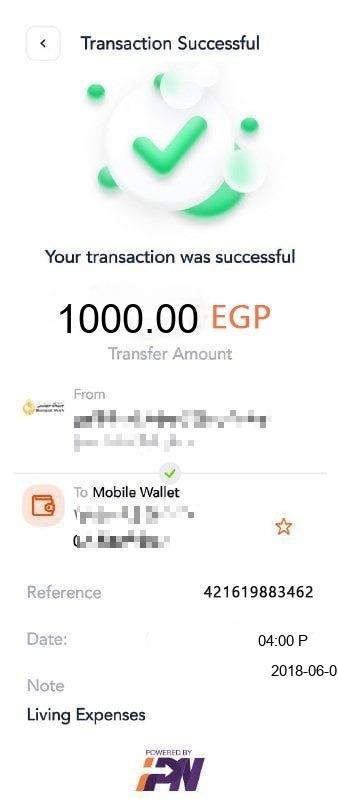
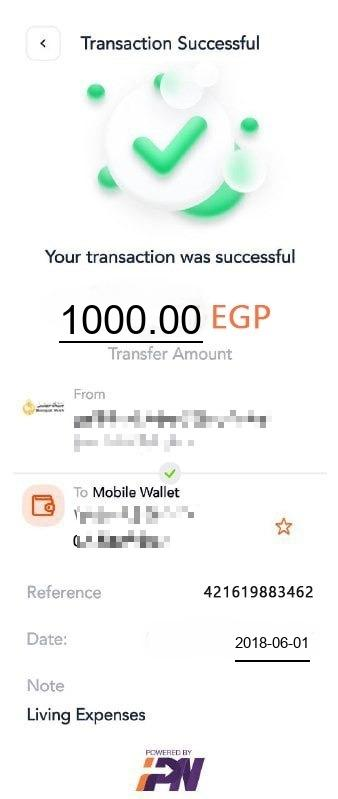
up

Changed region(s): [[0.1775, 0.3605, 0.5917, 0.4205], [0.7101, 0.781, 0.9467, 0.8711], [0.9763, 0.811, 1.0, 0.8411]]

diff --git a/genarate.py b/genarate.py
@@ -79,6 +79,7 @@ def draw_image(draw, time_slot, amount, data):
         size = item['size']
         color = item['color']
         format = item['format']
+        underline = item['underline']
 
         # Choose the font
         font = ImageFont.truetype(font_folder+"/"+font_path, size)
@@ -94,6 +95,8 @@ def draw_image(draw, time_slot, amount, data):
         text_bbox = draw.textbbox((0, 0), text, font=font)
         text_width = text_bbox[2] - text_bbox[0]
         text_height = text_bbox[3] - text_bbox[1]
+
+
         # Draw the text on the image
         y -= text_height
 
@@ -106,6 +109,8 @@ def draw_image(draw, time_slot, amount, data):
 
         # Draw the text on the image at the specified position
         draw.text((x, y), text, font=font, fill=color)
+        if underline:
+            draw.line((x, y + text_height+15, x + text_width, y + text_height+15), fill=color, width=2)
 
     return draw
 
@@ -172,16 +177,7 @@ for index, row in task.iterrows():
     for time_slot in time_slots:
         print(f"Task ID: {task_id} is processing at {time_slot}")
         # Randomly select a template
-        template = random.choice(tmp_task_type_template)
-        while template in tmp_used_template:
-            template = random.choice(tmp_task_type_template)
-            if len(tmp_task_type_template) == len(tmp_used_template):
-                print('All template is used for this task')
-                exit()
-                
-        tmp_used_template.append(template)
-
-
+        
         #if type is withdrwal chose from withdrwal_list A and B with presectage
         if task_type == 'deposit':
             if A_presectage_count < qty * A_presectage:
@@ -197,6 +193,31 @@ for index, row in task.iterrows():
         else:
             print('Task type not found')
             exit()
+        
+        template = random.choice(tmp_task_type_template)
+        atempt = 0
+        while template['amount_digits_max'] < len(str(amount)) and template['amount_digits_min'] > len(str(amount)):
+            template = random.choice(tmp_task_type_template)
+            atempt += 1
+            if atempt > 20:
+                print('All template is not match with amount')
+                exit()
+
+        while template in tmp_used_template:
+            atempt = 0
+            template = random.choice(tmp_task_type_template)
+            while template['amount_digits_max'] < len(str(amount)) and template['amount_digits_min'] > len(str(amount)):
+                template = random.choice(tmp_task_type_template)
+                atempt += 1
+                if atempt > 20:
+                    print('All template is not match with amount')
+                    exit()
+            if len(tmp_task_type_template) == len(tmp_used_template):
+                print('All template is used for this task')
+                exit()
+            
+                
+        tmp_used_template.append(template)
 
         if max_amount == 0:
             image = Image.open(templates_path + '/' + template['name'])
@@ -211,6 +232,8 @@ for index, row in task.iterrows():
                 amount -= max_amount
                 image = Image.open(templates_path + '/' + template['name'])
                 draw = ImageDraw.Draw(image)
+                # add random minite to time_slot 0-5
+                time_slot = time_slot + timedelta(minutes=random.randint(0, 5))
                 draw = draw_image(draw, time_slot, tmp_amount, template['data'])
                 if not os.path.exists(output_folder+"/"+str(task_id)):
                     os.makedirs(output_folder+"/"+str(task_id))

diff --git a/config.py b/config.py
@@ -30,7 +30,7 @@ def draw_image(draw, time_slot, amount, data):
         size = item['size']
         color = item['color']
         format = item['format']
-
+        underline = item['underline']
         # Choose the font
         font = ImageFont.truetype(font_folder+"/"+font_path, size)
 
@@ -57,6 +57,9 @@ def draw_image(draw, time_slot, amount, data):
 
         # Draw the text on the image at the specified position
         draw.text((x, y), text, font=font, fill=color)
+
+        if underline:
+            draw.line((x, y + text_height+15, x + text_width, y + text_height+15), fill=color, width=2)
 
     return draw
 
@@ -117,9 +120,8 @@ def process_image(image_path, json_data):
 
 # Main processing loop for images
 templates_path = './templates'
-processed_images_path = './processed_images'
 for filename in os.listdir(templates_path):
-    if filename.endswith(('.png', '.jpg', '.jpeg')) and filename not in processed_images_path:
+    if filename.endswith(('.png', '.jpg', '.jpeg')) and filename not in processed_images:
         image_path = os.path.join(templates_path, filename)
         print(f"Processing {filename}...")
         
